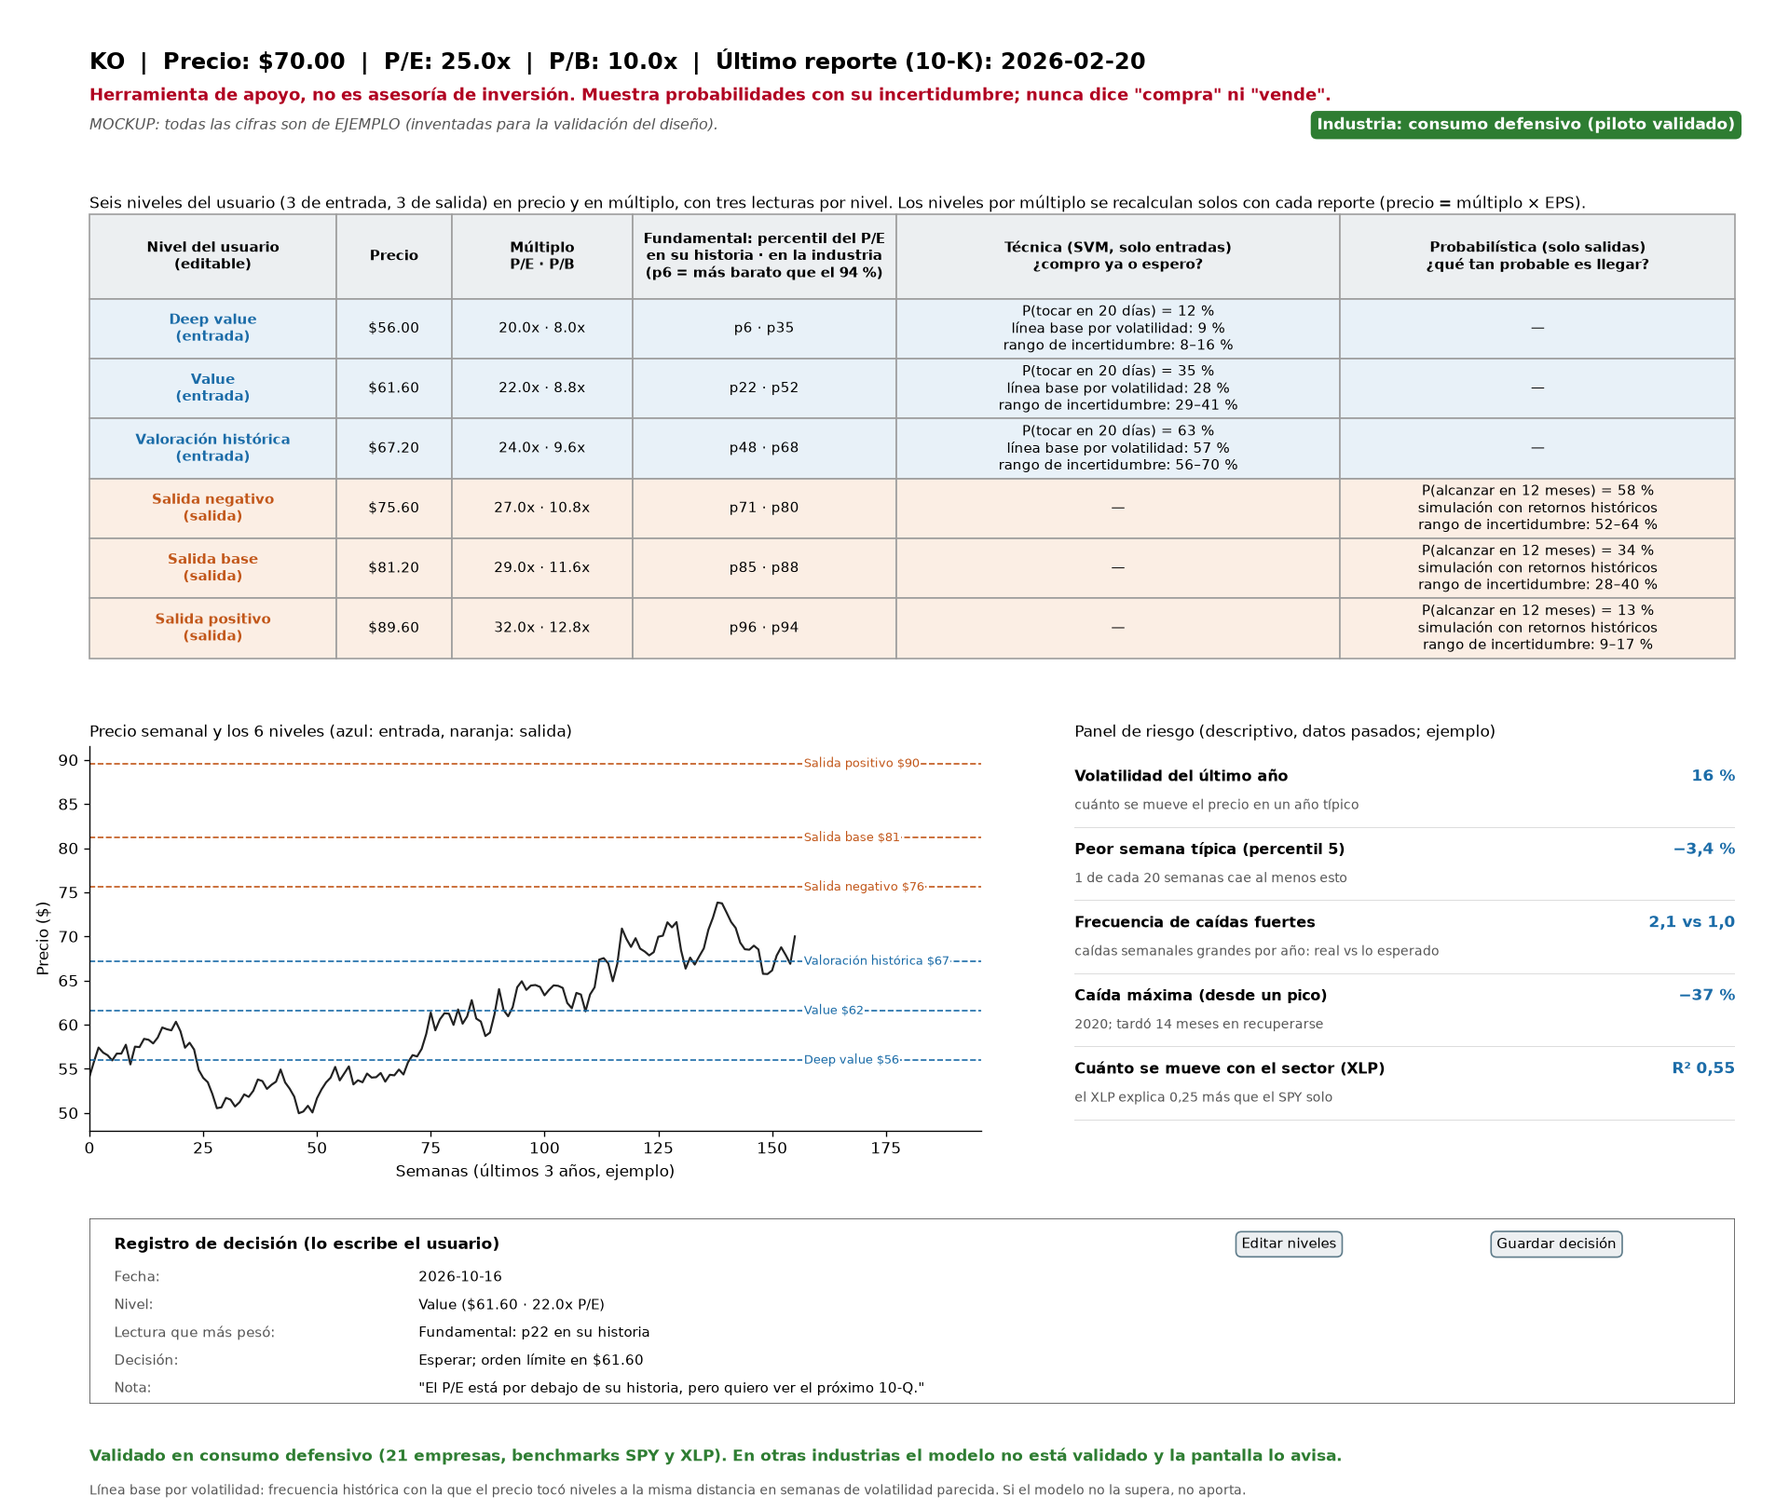
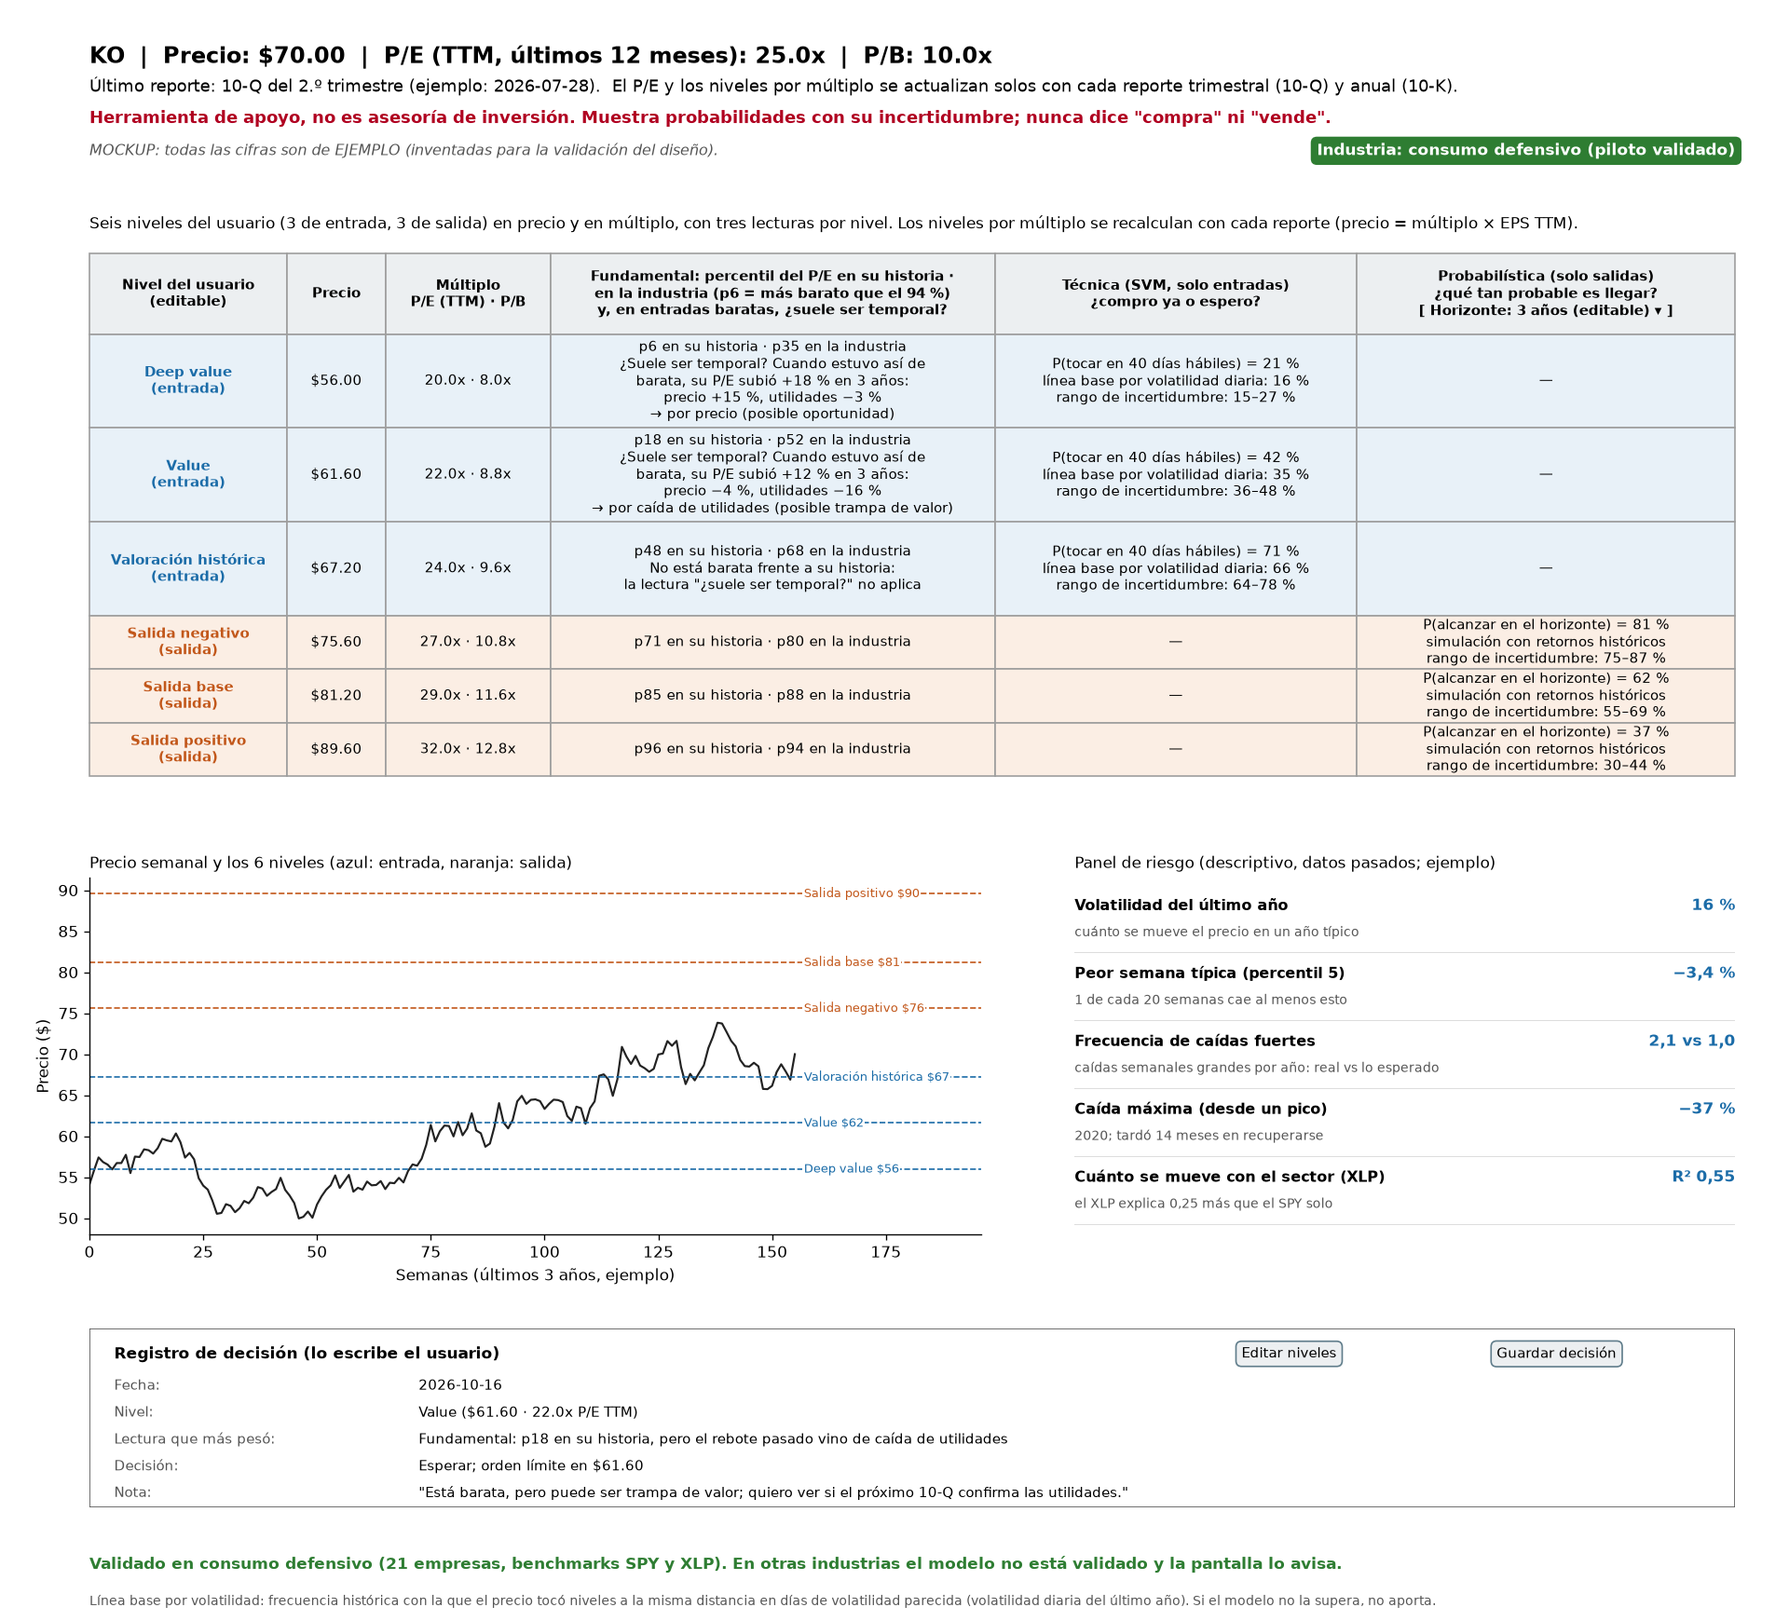
docs(tarea 0): mockup y guion de validación alineados con R6 (P/E TTM, P2, horizonte editable de 3 años)

diff --git a/scripts/mockup.py b/scripts/mockup.py
@@ -16,25 +16,33 @@ import numpy as np
 SALIDA = Path(__file__).resolve().parents[1] / "entregables/entrega_1/assets/mockup.png"
 
 # Cifras de ejemplo: precio = P/E x EPS y precio = P/B x valor en libros por acción
-TICKER, PRECIO, EPS, VLA, FILED = "KO", 70.00, 2.80, 7.00, "2026-02-20"
+# EPS = utilidad por acción de los últimos 12 meses (TTM: suma de los 4 trimestres más recientes)
+TICKER, PRECIO, EPS, VLA = "KO", 70.00, 2.80, 7.00
+REPORTE = "10-Q del 2.º trimestre (ejemplo: 2026-07-28)"
 AZUL, NARANJA, ROJO, GRIS = "#1b6ca8", "#c2571a", "#b00020", "#555555"
 COLORES = {"Entrada": AZUL, "Salida": NARANJA}
 
 # nivel, tipo, precio, percentil en su historia, percentil en la industria,
-# lectura técnica (solo entradas), lectura probabilística (solo salidas)
+# lectura P2 "¿suele ser temporal?" (solo entradas baratas), lectura técnica (solo entradas),
+# lectura probabilística (solo salidas). N = 40 días hábiles; horizonte de salidas = 3 años.
+P2_OPORTUNIDAD = ("¿Suele ser temporal? Cuando estuvo así de\nbarata, su P/E subió +18 % en 3 años:\n"
+                  "precio +15 %, utilidades −3 %\n→ por precio (posible oportunidad)")
+P2_TRAMPA = ("¿Suele ser temporal? Cuando estuvo así de\nbarata, su P/E subió +12 % en 3 años:\n"
+             "precio −4 %, utilidades −16 %\n→ por caída de utilidades (posible trampa de valor)")
+P2_NO_APLICA = "No está barata frente a su historia:\nla lectura \"¿suele ser temporal?\" no aplica"
 NIVELES = [
-    ("Deep value", "Entrada", 56.0, 6, 35,
-     "P(tocar en 20 días) = 12 %\nlínea base por volatilidad: 9 %\nrango de incertidumbre: 8–16 %", "—"),
-    ("Value", "Entrada", 61.6, 22, 52,
-     "P(tocar en 20 días) = 35 %\nlínea base por volatilidad: 28 %\nrango de incertidumbre: 29–41 %", "—"),
-    ("Valoración histórica", "Entrada", 67.2, 48, 68,
-     "P(tocar en 20 días) = 63 %\nlínea base por volatilidad: 57 %\nrango de incertidumbre: 56–70 %", "—"),
-    ("Salida negativo", "Salida", 75.6, 71, 80, "—",
-     "P(alcanzar en 12 meses) = 58 %\nsimulación con retornos históricos\nrango de incertidumbre: 52–64 %"),
-    ("Salida base", "Salida", 81.2, 85, 88, "—",
-     "P(alcanzar en 12 meses) = 34 %\nsimulación con retornos históricos\nrango de incertidumbre: 28–40 %"),
-    ("Salida positivo", "Salida", 89.6, 96, 94, "—",
-     "P(alcanzar en 12 meses) = 13 %\nsimulación con retornos históricos\nrango de incertidumbre: 9–17 %"),
+    ("Deep value", "Entrada", 56.0, 6, 35, P2_OPORTUNIDAD,
+     "P(tocar en 40 días hábiles) = 21 %\nlínea base por volatilidad diaria: 16 %\nrango de incertidumbre: 15–27 %", "—"),
+    ("Value", "Entrada", 61.6, 18, 52, P2_TRAMPA,
+     "P(tocar en 40 días hábiles) = 42 %\nlínea base por volatilidad diaria: 35 %\nrango de incertidumbre: 36–48 %", "—"),
+    ("Valoración histórica", "Entrada", 67.2, 48, 68, P2_NO_APLICA,
+     "P(tocar en 40 días hábiles) = 71 %\nlínea base por volatilidad diaria: 66 %\nrango de incertidumbre: 64–78 %", "—"),
+    ("Salida negativo", "Salida", 75.6, 71, 80, "", "—",
+     "P(alcanzar en el horizonte) = 81 %\nsimulación con retornos históricos\nrango de incertidumbre: 75–87 %"),
+    ("Salida base", "Salida", 81.2, 85, 88, "", "—",
+     "P(alcanzar en el horizonte) = 62 %\nsimulación con retornos históricos\nrango de incertidumbre: 55–69 %"),
+    ("Salida positivo", "Salida", 89.6, 96, 94, "", "—",
+     "P(alcanzar en el horizonte) = 37 %\nsimulación con retornos históricos\nrango de incertidumbre: 30–44 %"),
 ]
 
 RIESGO = [
@@ -55,9 +63,11 @@ def precio_ejemplo(n=156, semilla=11):
 
 def encabezado(ax):
     ax.axis("off")
-    ax.text(0.0, 0.80, f"{TICKER}  |  Precio: ${PRECIO:.2f}  |  P/E: {PRECIO / EPS:.1f}x  |  "
-            f"P/B: {PRECIO / VLA:.1f}x  |  Último reporte (10-K): {FILED}", fontsize=14.5, weight="bold", va="center")
-    ax.text(0.0, 0.38, "Herramienta de apoyo, no es asesoría de inversión. "
+    ax.text(0.0, 0.92, f"{TICKER}  |  Precio: ${PRECIO:.2f}  |  P/E (TTM, últimos 12 meses): {PRECIO / EPS:.1f}x  |  "
+            f"P/B: {PRECIO / VLA:.1f}x", fontsize=14.5, weight="bold", va="center")
+    ax.text(0.0, 0.64, f"Último reporte: {REPORTE}.  El P/E y los niveles por múltiplo se actualizan solos con cada "
+            "reporte trimestral (10-Q) y anual (10-K).", fontsize=10.5, va="center")
+    ax.text(0.0, 0.33, "Herramienta de apoyo, no es asesoría de inversión. "
             "Muestra probabilidades con su incertidumbre; nunca dice \"compra\" ni \"vende\".",
             fontsize=10.5, color=ROJO, weight="bold", va="center")
     ax.text(0.0, 0.02, "MOCKUP: todas las cifras son de EJEMPLO (inventadas para la validación del diseño).",
@@ -68,21 +78,23 @@ def encabezado(ax):
 
 def tabla_niveles(ax):
     ax.axis("off")
-    cols = ["Nivel del usuario\n(editable)", "Precio", "Múltiplo\nP/E · P/B",
-            "Fundamental: percentil del P/E\nen su historia · en la industria\n(p6 = más barato que el 94 %)",
+    cols = ["Nivel del usuario\n(editable)", "Precio", "Múltiplo\nP/E (TTM) · P/B",
+            "Fundamental: percentil del P/E en su historia ·\nen la industria (p6 = más barato que el 94 %)\n"
+            "y, en entradas baratas, ¿suele ser temporal?",
             "Técnica (SVM, solo entradas)\n¿compro ya o espero?",
-            "Probabilística (solo salidas)\n¿qué tan probable es llegar?"]
+            "Probabilística (solo salidas)\n¿qué tan probable es llegar?\n[ Horizonte: 3 años (editable) ▾ ]"]
     filas = []
-    for n, t, p, h, i, tec, prob in NIVELES:
+    for n, t, p, h, i, p2, tec, prob in NIVELES:
+        fund = f"p{h} en su historia · p{i} en la industria" + (f"\n{p2}" if p2 else "")
         filas.append([f"{n}\n({t.lower()})", f"${p:.2f}", f"{p / EPS:.1f}x · {p / VLA:.1f}x",
-                      f"p{h} · p{i}", tec, prob])
+                      fund, tec, prob])
     tab = ax.table(cellText=filas, colLabels=cols, loc="center", cellLoc="center",
-                   colWidths=[0.15, 0.07, 0.11, 0.16, 0.27, 0.24])
+                   colWidths=[0.12, 0.06, 0.10, 0.27, 0.22, 0.23])
     tab.auto_set_font_size(False)
-    tab.set_fontsize(9)
+    tab.set_fontsize(8.8)
     for (r, c), cell in tab.get_celld().items():
         cell.set_edgecolor("#9e9e9e")
-        cell.set_height(0.19 if r == 0 else 0.135)
+        cell.set_height(0.15 if r == 0 else (0.175 if r <= 3 else 0.1))
         if r == 0:
             cell.set_facecolor("#eceff1")
             cell.set_text_props(weight="bold")
@@ -91,8 +103,8 @@ def tabla_niveles(ax):
             if c == 0:
                 cell.set_text_props(weight="bold", color=COLORES[NIVELES[r - 1][1]])
     ax.set_title("Seis niveles del usuario (3 de entrada, 3 de salida) en precio y en múltiplo, con tres lecturas "
-                 "por nivel. Los niveles por múltiplo se recalculan solos con cada reporte (precio = múltiplo × EPS).",
-                 fontsize=10, loc="left", pad=4)
+                 "por nivel. Los niveles por múltiplo se recalculan con cada reporte (precio = múltiplo × EPS TTM).",
+                 fontsize=10, loc="left", pad=12)
 
 
 def grafico_precio(ax):
@@ -127,10 +139,10 @@ def registro_decision(ax):
     ax.axis("off")
     ax.add_patch(plt.Rectangle((0, 0), 1, 1, transform=ax.transAxes, fill=False, ec=GRIS, lw=1))
     ax.text(0.015, 0.86, "Registro de decisión (lo escribe el usuario)", fontsize=10, weight="bold", va="center")
-    campos = [("Fecha", "2026-10-16"), ("Nivel", "Value ($61.60 · 22.0x P/E)"),
-              ("Lectura que más pesó", "Fundamental: p22 en su historia"),
+    campos = [("Fecha", "2026-10-16"), ("Nivel", "Value ($61.60 · 22.0x P/E TTM)"),
+              ("Lectura que más pesó", "Fundamental: p18 en su historia, pero el rebote pasado vino de caída de utilidades"),
               ("Decisión", "Esperar; orden límite en $61.60"),
-              ("Nota", "\"El P/E está por debajo de su historia, pero quiero ver el próximo 10-Q.\"")]
+              ("Nota", "\"Está barata, pero puede ser trampa de valor; quiero ver si el próximo 10-Q confirma las utilidades.\"")]
     for k, (a, b) in enumerate(campos):
         y = 0.68 - k * 0.15
         ax.text(0.015, y, a + ":", fontsize=9, va="center", color=GRIS)
@@ -141,8 +153,8 @@ def registro_decision(ax):
 
 
 def main():
-    fig = plt.figure(figsize=(16, 13.5), facecolor="white")
-    gs = fig.add_gridspec(4, 2, height_ratios=[0.55, 3.0, 2.6, 1.25], width_ratios=[1.35, 1],
+    fig = plt.figure(figsize=(16, 14.5), facecolor="white")
+    gs = fig.add_gridspec(4, 2, height_ratios=[0.7, 3.6, 2.4, 1.2], width_ratios=[1.35, 1],
                           hspace=0.32, wspace=0.12, left=0.05, right=0.97, top=0.97, bottom=0.07)
     encabezado(fig.add_subplot(gs[0, :]))
     tabla_niveles(fig.add_subplot(gs[1, :]))
@@ -153,7 +165,8 @@ def main():
              "En otras industrias el modelo no está validado y la pantalla lo avisa.",
              fontsize=10, color="#2e7d32", weight="bold", va="center")
     fig.text(0.05, 0.012, "Línea base por volatilidad: frecuencia histórica con la que el precio tocó niveles a la misma "
-             "distancia en semanas de volatilidad parecida. Si el modelo no la supera, no aporta.",
+             "distancia en días de volatilidad parecida (volatilidad diaria del último año). Si el modelo no la supera, "
+             "no aporta.",
              fontsize=8.5, color=GRIS, va="center")
     SALIDA.parent.mkdir(parents=True, exist_ok=True)
     fig.savefig(SALIDA, dpi=120)

diff --git a/docs/entrega_1/guion_validacion.md b/docs/entrega_1/guion_validacion.md
@@ -17,18 +17,19 @@ Leer en voz alta:
 
 Esto aplica la Ley 1581 de 2012 de protección de datos personales (Habeas Data): autorización previa e informada (arts. 9 y 12), finalidad limitada (art. 4) y derecho a conocer, corregir y suprimir los datos (art. 8). Detalle en `03_etica_legal.md`. Si la respuesta es no, la sesión no se hace. No se graba audio ni video.
 
-## Parte 1. Tareas sobre el mockup (6–7 minutos)
+## Parte 1. Tareas sobre el mockup (7–8 minutos)
 
 Se lee cada tarea y se deja que el participante explore. El autor no explica nada hasta que el participante termine o se rinda; anota dónde mira, qué dice, dónde duda y si completó la tarea (sí, con ayuda, no).
 
 1. **Valoración frente a la historia.** "Encuentra si KO está cara o barata frente a su propia historia. ¿Dónde lo viste?"
 2. **Lectura técnica de una entrada.** "¿Qué te dice la lectura técnica del nivel value? ¿Qué significa la línea base por volatilidad y el rango de incertidumbre?"
-3. **Decidir con una probabilidad.** "Si la probabilidad de tocar el nivel value en 20 días fuera 35 %, ¿qué harías? ¿Cambia algo saber que la línea base es 28 %?"
-4. **Salidas.** "¿Qué tan probable es que KO llegue a tu salida base en 12 meses? ¿Te sirve ese número para fijar la salida o la moverías?"
+3. **Decidir con una probabilidad.** "Si la probabilidad de tocar el nivel value en 40 días hábiles fuera 42 %, ¿qué harías? ¿Cambia algo saber que la línea base por volatilidad diaria es 35 %?"
+4. **Salidas.** "¿Qué tan probable es que KO llegue a tu salida base en el horizonte que muestra la pantalla? ¿Te sirve ese número para fijar la salida o la moverías?"
 5. **Riesgo.** "Mira el panel de riesgo. ¿Qué número usarías en 5 segundos? ¿Hay alguno que no entiendas?"
 6. **Ajustar y registrar.** "Supón que quieres bajar tu nivel deep value a 19 veces utilidades y anotar por qué esperas. ¿Dónde lo harías?"
+7. **¿El "barata" es temporal? (P2).** "Si KO está barata frente a su historia, ¿te ayuda saber si ese 'barata' suele ser temporal y si el rebote vino del precio o de las utilidades? Compara el nivel deep value con el nivel value. ¿Cómo lo usarías?" Se anota si distingue sin ayuda "por precio (posible oportunidad)" de "por caída de utilidades (posible trampa de valor)".
 
-Después de las seis tareas: "¿Viste el aviso de que la herramienta solo está validada en consumo defensivo? ¿Qué esperarías si buscas una acción de otra industria?"
+Después de las siete tareas: "¿Viste el aviso de que la herramienta solo está validada en consumo defensivo? ¿Qué esperarías si buscas una acción de otra industria?"
 
 ## Parte 2. Claridad, confianza y explicabilidad (4–5 minutos)
 
@@ -55,6 +56,7 @@ Preguntas abiertas: "¿Qué te haría dejar de confiar en esta herramienta?" y "
 3. "¿Qué falta? Por ejemplo, un ratio que usas hoy y no aparece."
 4. "¿Cuándo la usarías: antes de comprar, después de un reporte trimestral o en ambos casos?"
 5. **Intención de uso (KPI 5).** "¿La usarías en tu proceso actual? Sí o no, y por qué." Luego: "De 1 a 5, ¿qué tan probable es que la uses cada vez que analizas una acción?"
+6. **Horizonte de las salidas.** "La probabilidad de las salidas usa un horizonte de 3 años que puedes editar. ¿Ese horizonte coincide con cuánto tiempo sueles mantener una acción value? ¿Qué horizonte pondrías y lo cambiarías según la empresa?"
 
 ## Parte 4. Cómo analizas hoy: línea base de los KPI (2–3 minutos)
 
@@ -67,6 +69,7 @@ Preguntas sobre su proceso real, no sobre el mockup. Se anota el número que dig
 | 4.3 | "Cuando una empresa publica su reporte trimestral, ¿cuántos días pasan hasta que actualizas tus niveles? ¿Alguna vez no los actualizas?" | 3. Latencia |
 | 4.4 | "¿Anotas en algún lugar por qué compraste o vendiste? ¿Dónde y qué anotas? De 10 decisiones, ¿cuántas quedan anotadas?" | 4. Decisiones registradas |
 | 4.5 | "¿Cómo mides hoy el riesgo de una acción antes de comprarla?" | Dolor de riesgo no cuantificado |
+| 4.6 | "¿Usas el P/E de los últimos 12 meses (TTM, que cambia con cada reporte trimestral) o el del último año fiscal? ¿Dónde lo consultas?" | Definición del P/E (EPS TTM, spec §4.3b) |
 
 ## Después de la sesión
 

diff --git a/docs/entrega_1/validacion_stakeholder.md b/docs/entrega_1/validacion_stakeholder.md
@@ -22,10 +22,11 @@ Resultado: sí (sin ayuda), con ayuda o no. En observaciones, dónde miró, dón
 |---|---|---|---|
 | 1 | Encontrar si KO está cara o barata frente a su historia | (completar tras la sesión) | (completar tras la sesión) |
 | 2 | Interpretar la lectura técnica del nivel value (línea base y rango) | (completar tras la sesión) | (completar tras la sesión) |
-| 3 | Qué haría con 35 % de probabilidad frente a una línea base de 28 % | (completar tras la sesión) | (completar tras la sesión) |
-| 4 | Leer la probabilidad de la salida base en 12 meses | (completar tras la sesión) | (completar tras la sesión) |
+| 3 | Qué haría con 42 % de probabilidad (40 días hábiles) frente a una línea base de 35 % | (completar tras la sesión) | (completar tras la sesión) |
+| 4 | Leer la probabilidad de la salida base en el horizonte (3 años, editable) | (completar tras la sesión) | (completar tras la sesión) |
 | 5 | Panel de riesgo: qué usaría y qué no entiende | (completar tras la sesión) | (completar tras la sesión) |
 | 6 | Ajustar el nivel deep value y registrar la decisión | (completar tras la sesión) | (completar tras la sesión) |
+| 7 | P2: si le sirve saber si el "barata" suele ser temporal y si el rebote vino del precio o de las utilidades (oportunidad frente a trampa de valor), y cómo lo usaría | (completar tras la sesión) | (completar tras la sesión) |
 | — | Vio el aviso "validado en consumo defensivo" y qué esperaría en otra industria | (completar tras la sesión) | (completar tras la sesión) |
 
 ## 3. Escalas 1–5 (parte 2 del guion)
@@ -58,6 +59,7 @@ Resultado: sí (sin ayuda), con ayuda o no. En observaciones, dónde miró, dón
 | 3.4 | Cuándo la usaría (antes de comprar, tras un reporte, ambos) | (completar tras la sesión) |
 | 3.5 | ¿La usaría? Sí/no y por qué (KPI 5) | (completar tras la sesión) |
 | 3.5 | Intención de uso, 1–5 | (completar tras la sesión) |
+| 3.6 | Horizonte de las salidas: ¿3 años coincide con su tenencia típica? ¿Qué horizonte pondría y si lo cambiaría por empresa? | (completar tras la sesión) |
 
 ## 5. Línea base de los KPI (parte 4 del guion)
 
@@ -70,6 +72,7 @@ Se compara con la línea base de `01_negocio.md`, sección 1.6. Si la respuesta 
 | 4.3 | 3. Días entre un reporte trimestral y la actualización de sus niveles | Días | (completar tras la sesión) | (completar tras la sesión) |
 | 4.4 | 4. Decisiones que deja registradas (de cada 10) | 0 % | (completar tras la sesión) | (completar tras la sesión) |
 | 4.5 | Cómo mide hoy el riesgo | "A ojo" | (completar tras la sesión) | (completar tras la sesión) |
+| 4.6 | Qué P/E usa: últimos 12 meses (TTM) o último año fiscal, y dónde lo consulta | P/E sobre EPS TTM (spec §4.3b) | (completar tras la sesión) | (completar tras la sesión) |
 | — | 5. Confianza y adopción | Sin línea base | Ver secciones 3 y 4 | — |
 
 ## 6. Cambios que generó en el diseño
